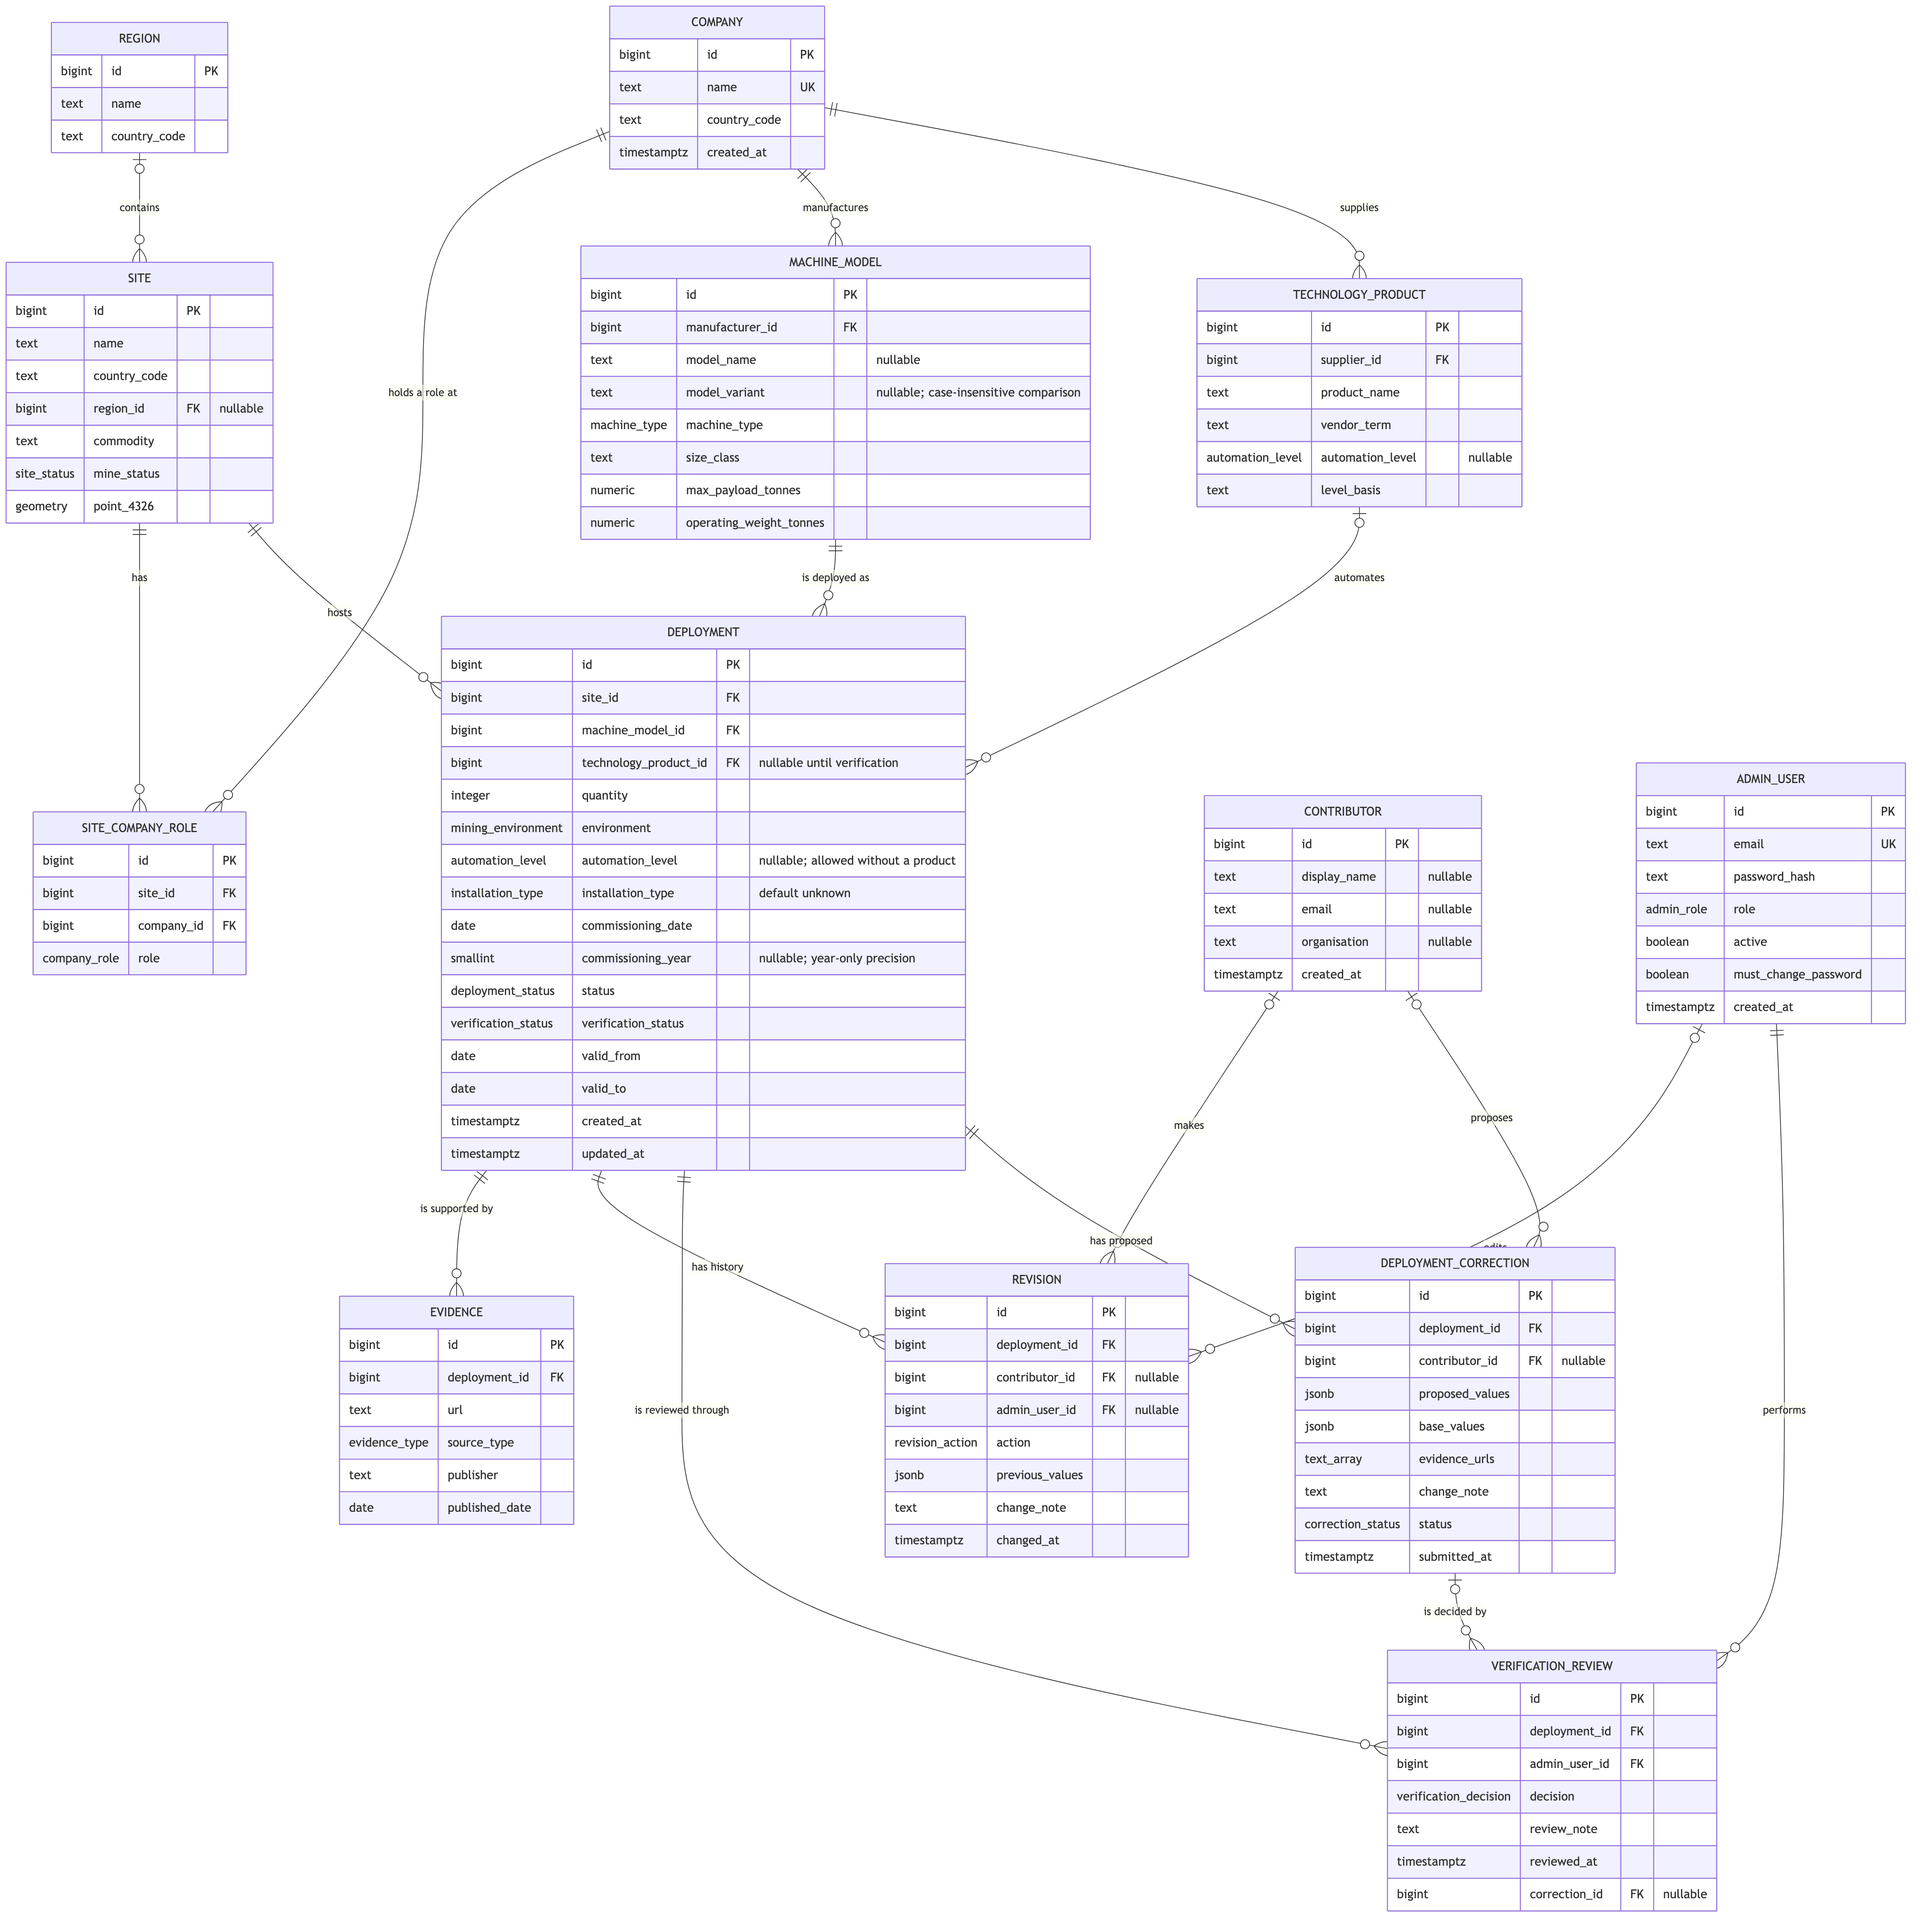
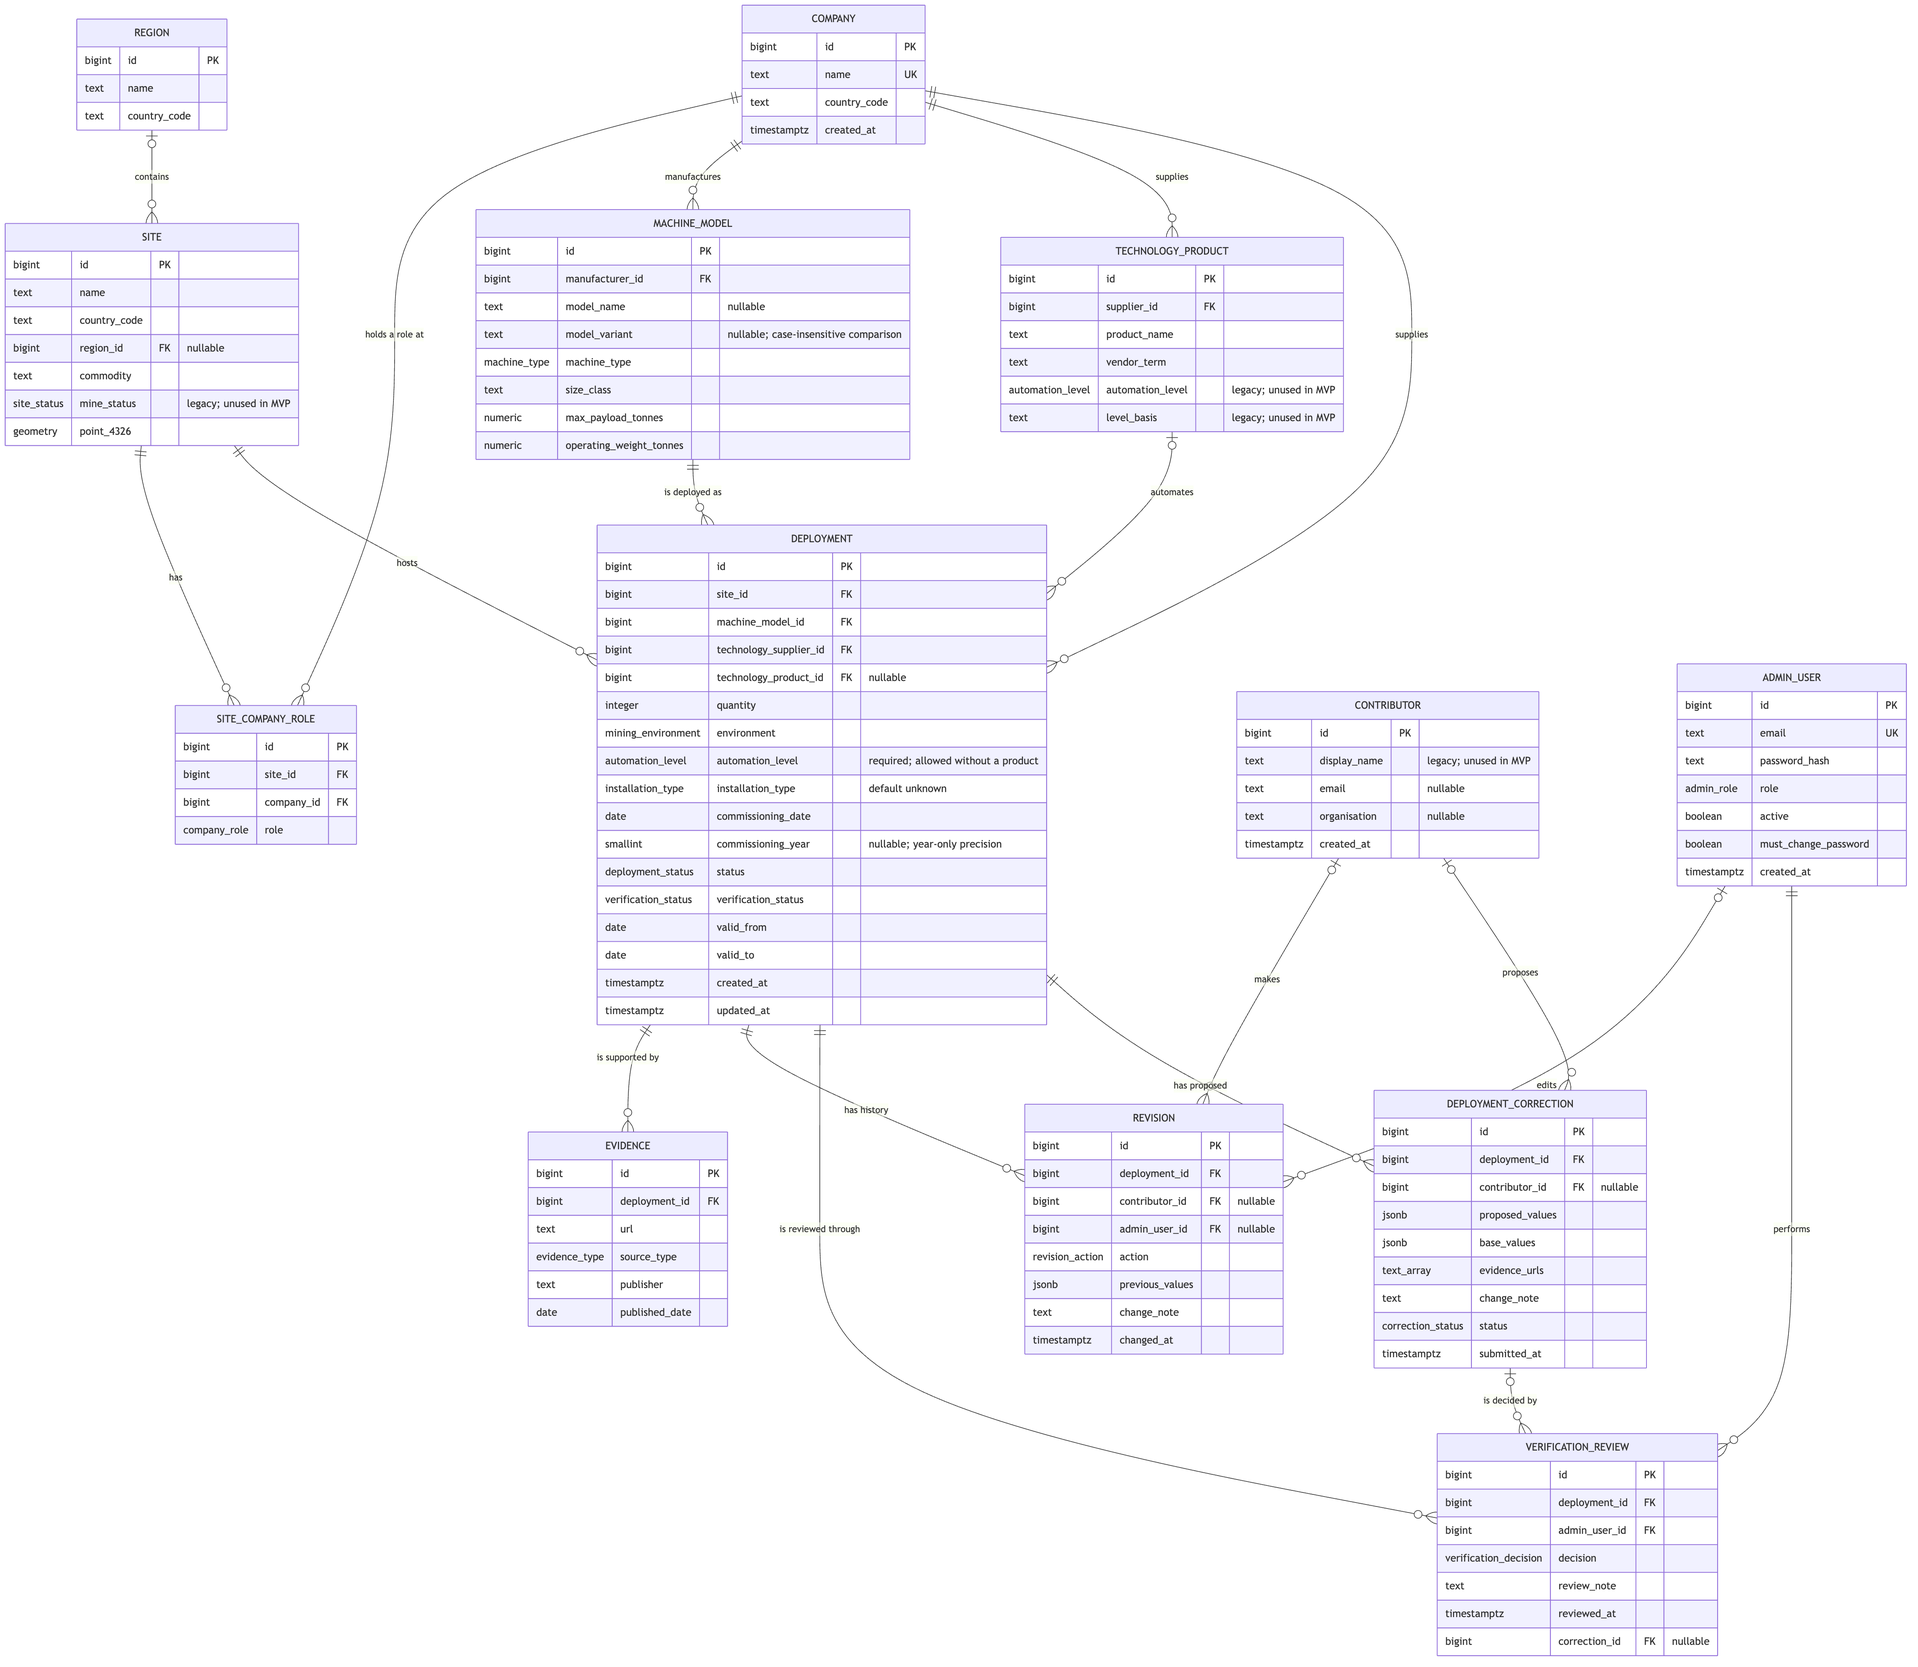
docs: regenerate the ERD image and mark it as implemented
- Regenerate docs/images/erd.png from the Mermaid source with the
  commands in ERD.md. The image the SRS embeds now shows the deployment's
  technology_supplier_id, its link to COMPANY, the optional product and
  the required level.
- Migration 005 (#188) has merged, so ERD.md and SRS 5.1 now say it
  implements this model instead of calling it a target change.
- Mark the columns the text already calls legacy (site status, product
  level and basis, contributor display name) in the diagram too.

diff --git a/docs/database/ERD.md b/docs/database/ERD.md
@@ -5,9 +5,8 @@
 This is the proposed logical data model for the Autonomous Mining Equipment
 Market Map.  It aligns to SRS v0.6: FR-01, FR-02, FR-04 to FR-08, FR-10,
 FR-11 and FR-57 as committed scope, with FR-03, FR-12 to FR-14 and FR-56
-intended. FR-09 is withdrawn. The supplier association below is the target
-change in #171, not a claim that the database has already been migrated.
-In particular it holds
+intended. FR-09 is withdrawn. Migration 005 (#188, issue #171) implements the
+supplier association below. In particular it holds
 the manufacturer of a machine and the supplier of its automation technology as
 separate values.
 
@@ -57,7 +56,7 @@ erDiagram
         text country_code
         bigint region_id FK "nullable"
         text commodity
-        site_status mine_status
+        site_status mine_status "legacy; unused in MVP"
         geometry point_4326
     }
     SITE_COMPANY_ROLE {
@@ -81,8 +80,8 @@ erDiagram
         bigint supplier_id FK
         text product_name
         text vendor_term
-        automation_level automation_level "nullable"
-        text level_basis
+        automation_level automation_level "legacy; unused in MVP"
+        text level_basis "legacy; unused in MVP"
     }
     DEPLOYMENT {
         bigint id PK
@@ -113,7 +112,7 @@ erDiagram
     }
     CONTRIBUTOR {
         bigint id PK
-        text display_name "nullable"
+        text display_name "legacy; unused in MVP"
         text email "nullable"
         text organisation "nullable"
         timestamptz created_at

diff --git a/docs/SRS/SRS.md b/docs/SRS/SRS.md
@@ -425,7 +425,7 @@ Entities are grouped into reference data, described once and reused, and the fac
 
 ![Proposed logical data model](../images/erd.png)
 
-The diagram shows the schema as currently built. It will change under issue #171: a deployment will be able to name a supplier without a product, and the level held against a product is no longer used. *(rev 0.6)*
+The diagram shows the schema as built, including migration 005 (issue #171): a deployment names its technology supplier directly, the technology product is optional, and the level held against a product is no longer used. *(rev 0.6)*
 
 The diagram is maintained as Mermaid source in `docs/database/ERD.md`, which the project plan makes normative for enumerations and constraints. The image above is generated from it. Types shown are those of the chosen PostgreSQL and PostGIS implementation; if PostGIS is unavailable, `point_4326` is held as latitude and longitude columns, which serve the point rendering and bounding-box queries the map requires.
 
